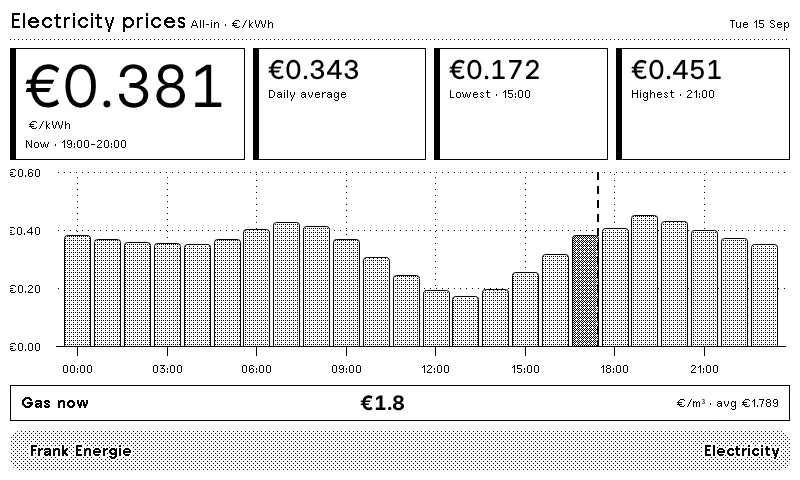
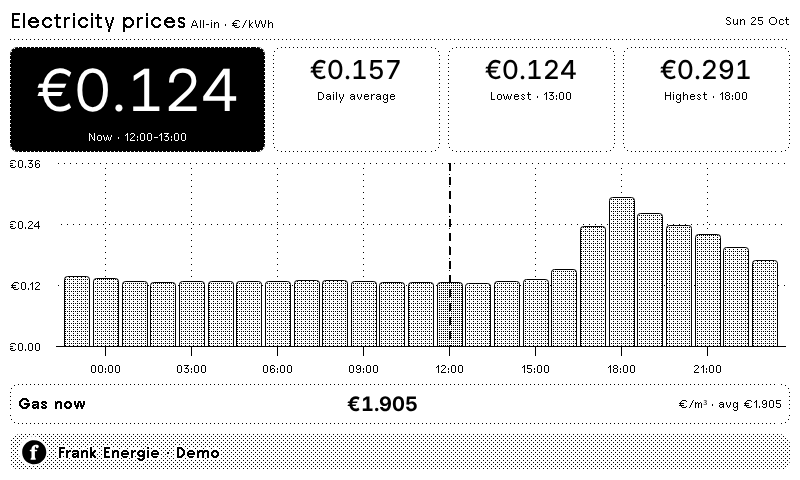
docs: regenerate plugin previews from current templates

diff --git a/TRMNL/README.md b/TRMNL/README.md
@@ -12,7 +12,7 @@ The plugin icon is stored in the TRMNL bundle and referenced from `settings.yml`
 
 ## Previews
 
-Previews use a snapshot of public market prices and do not represent current rates.
+Previews render the current Liquid templates with public market prices recorded for 25 October 2026, at 12:00 CET. They are demo images, not current rates.
 
 | Full View | Half Horizontal View |
 |------------|----------------------|
